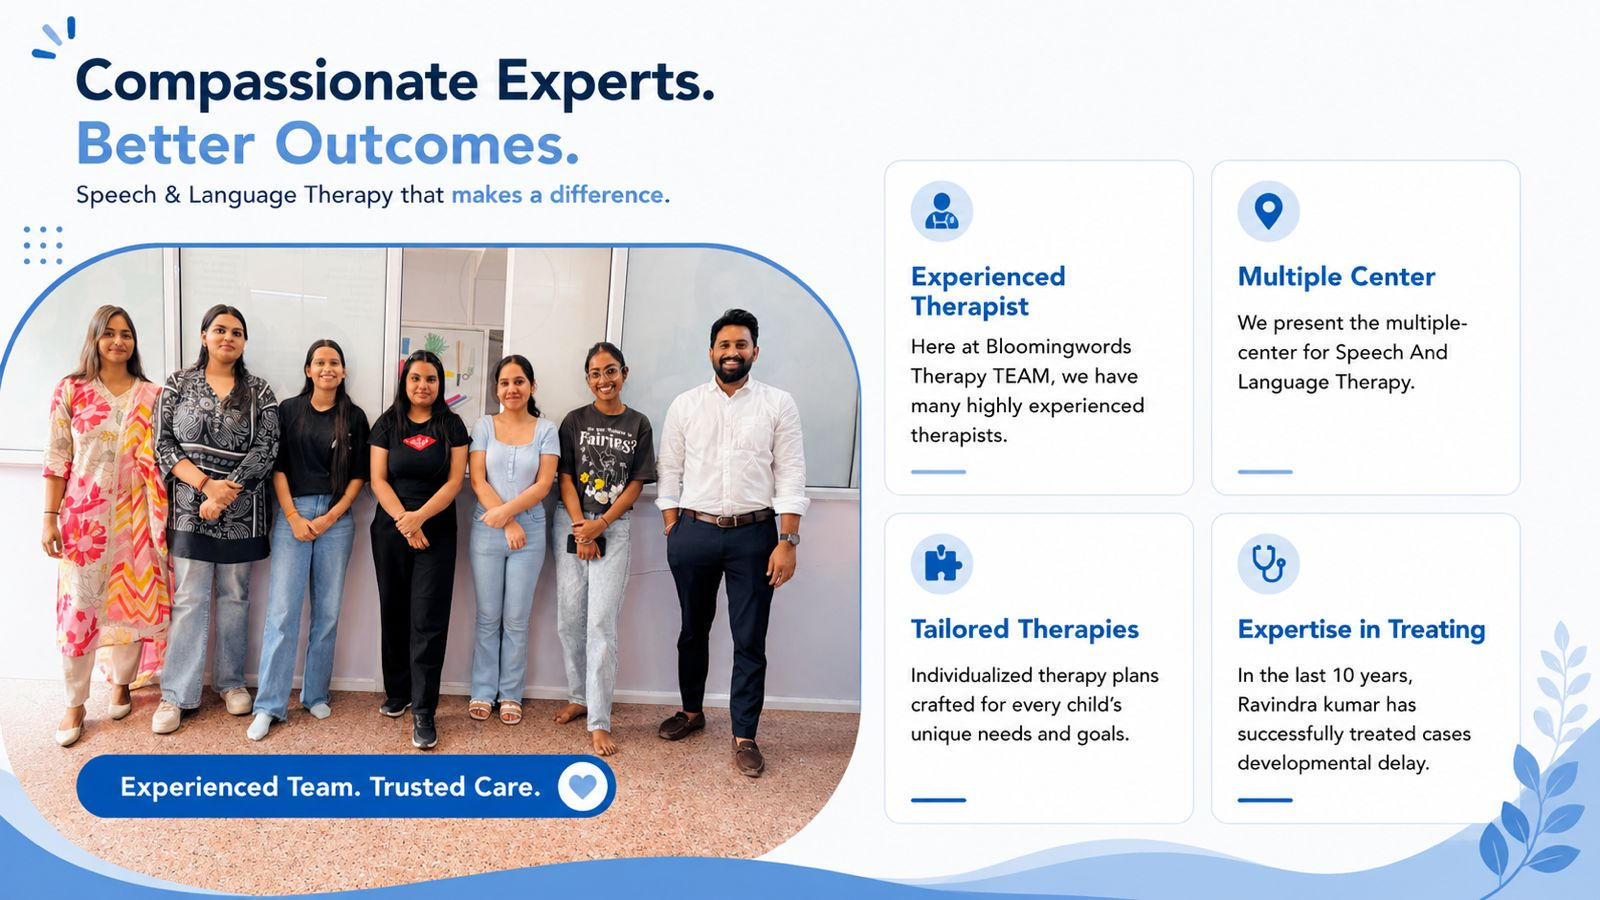
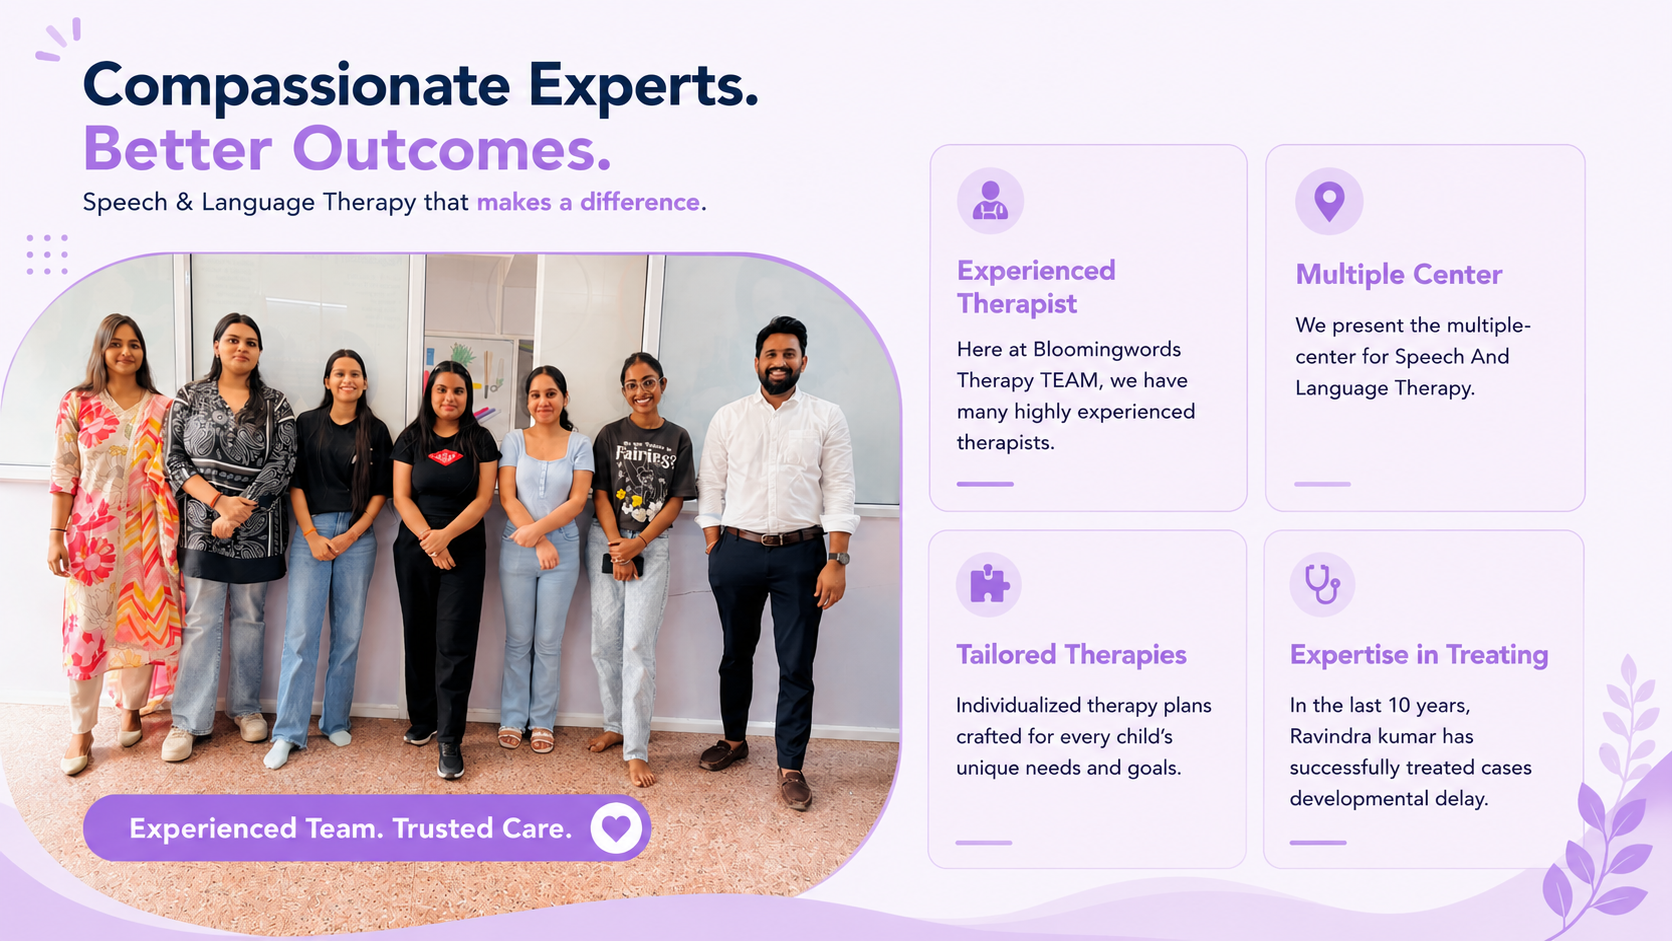
Update hero headline, simplify Meet the Team section, add mobile carousel for Classes at Siraa

diff --git a/frontend/src/app/Developmentaltherapy/Thin-DelhiNCR/route.ts b/frontend/src/app/Developmentaltherapy/Thin-DelhiNCR/route.ts
@@ -210,7 +210,9 @@ body{font-family:'Inter',system-ui,sans-serif;color:#2d2d2d;background:#F5F0FC;f
   .what-img img{height:220px;}
   .who-grid{grid-template-columns:1fr;}
   .docs{display:grid;grid-template-columns:repeat(2,1fr);gap:14px;}
-  .classes-grid{grid-template-columns:1fr;}
+  .classes-grid{display:flex;grid-template-columns:none;overflow-x:auto;scroll-snap-type:x mandatory;gap:12px;padding-bottom:6px;-webkit-overflow-scrolling:touch;scrollbar-width:none;}
+  .classes-grid::-webkit-scrollbar{display:none;}
+  .classes-grid .class-card{flex:0 0 85%;scroll-snap-align:start;}
   .stats-bar{flex-direction:column;}
   .s-item{border-right:none;border-bottom:1px solid rgba(255,255,255,0.2);}
   .s-item:last-child{border-bottom:none;}
@@ -512,7 +514,7 @@ height="0" width="0" style="display:none;visibility:hidden"></iframe></noscript>
         <span class="tag tag-green">Developmental Therapy · Gurgaon</span>
         <span class="tag tag-coral">Talk to Expert for Free</span>
       </div>
-      <h1>When Milestones Feel <em>Out of Reach</em>, There Is a Way Forward</h1>
+      <h1>Wondering If Your Child Is Developing as <em>Expected</em>?</h1>
       <p class="hero-sub">Every child develops at their own pace, but when speech, motor skills, or social milestones consistently lag behind, waiting rarely helps on its own. Developmental therapy gives children the structured support they need to build skills step by step, at home, in school, and in every relationship that matters.</p>
       <div class="trust-strip">
         <span class="tp">500+ Families Helped</span>
@@ -666,9 +668,6 @@ height="0" width="0" style="display:none;visibility:hidden"></iframe></noscript>
 
   <!-- MEET THE TEAM -->
   <div class="card">
-    <div class="sec-label">Our Specialists</div>
-    <h2>Meet the Team</h2>
-    <p style="font-size:13px;color:#666;margin-bottom:10px;">Certified developmental therapists and pediatric specialists, dedicated to helping every child reach their full potential.</p>
     <div style="border-radius:16px;overflow:hidden;border:2px solid #EDD8F0;">
       <img src="/assets/Team.jpg" alt="Siraa Health developmental therapy team" style="width:100%;height:auto;display:block;"/>
     </div>
